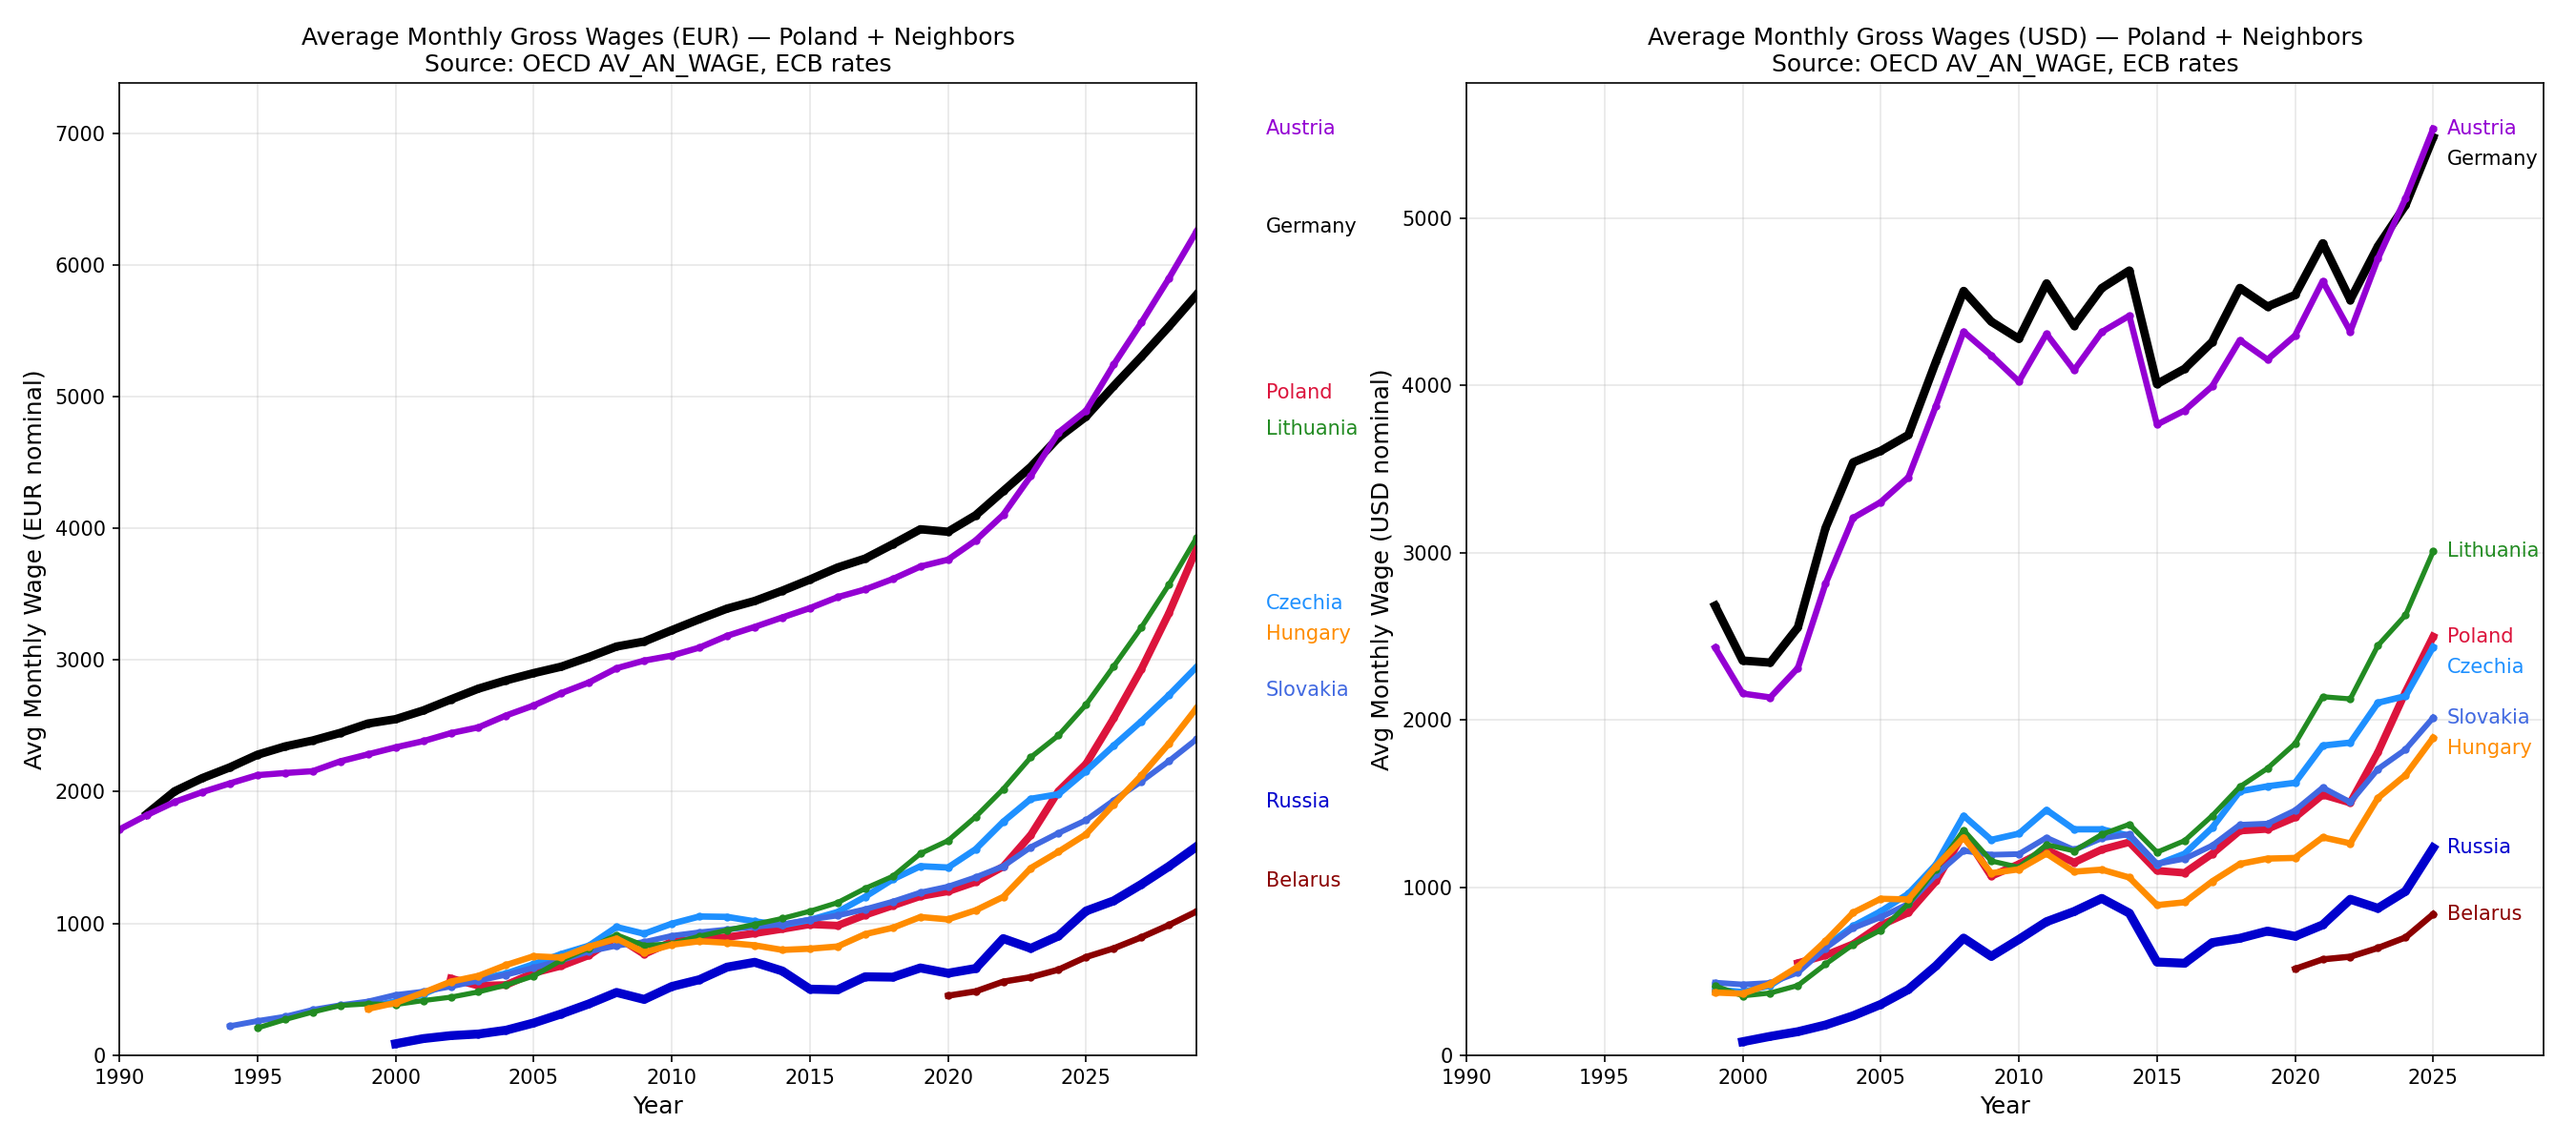
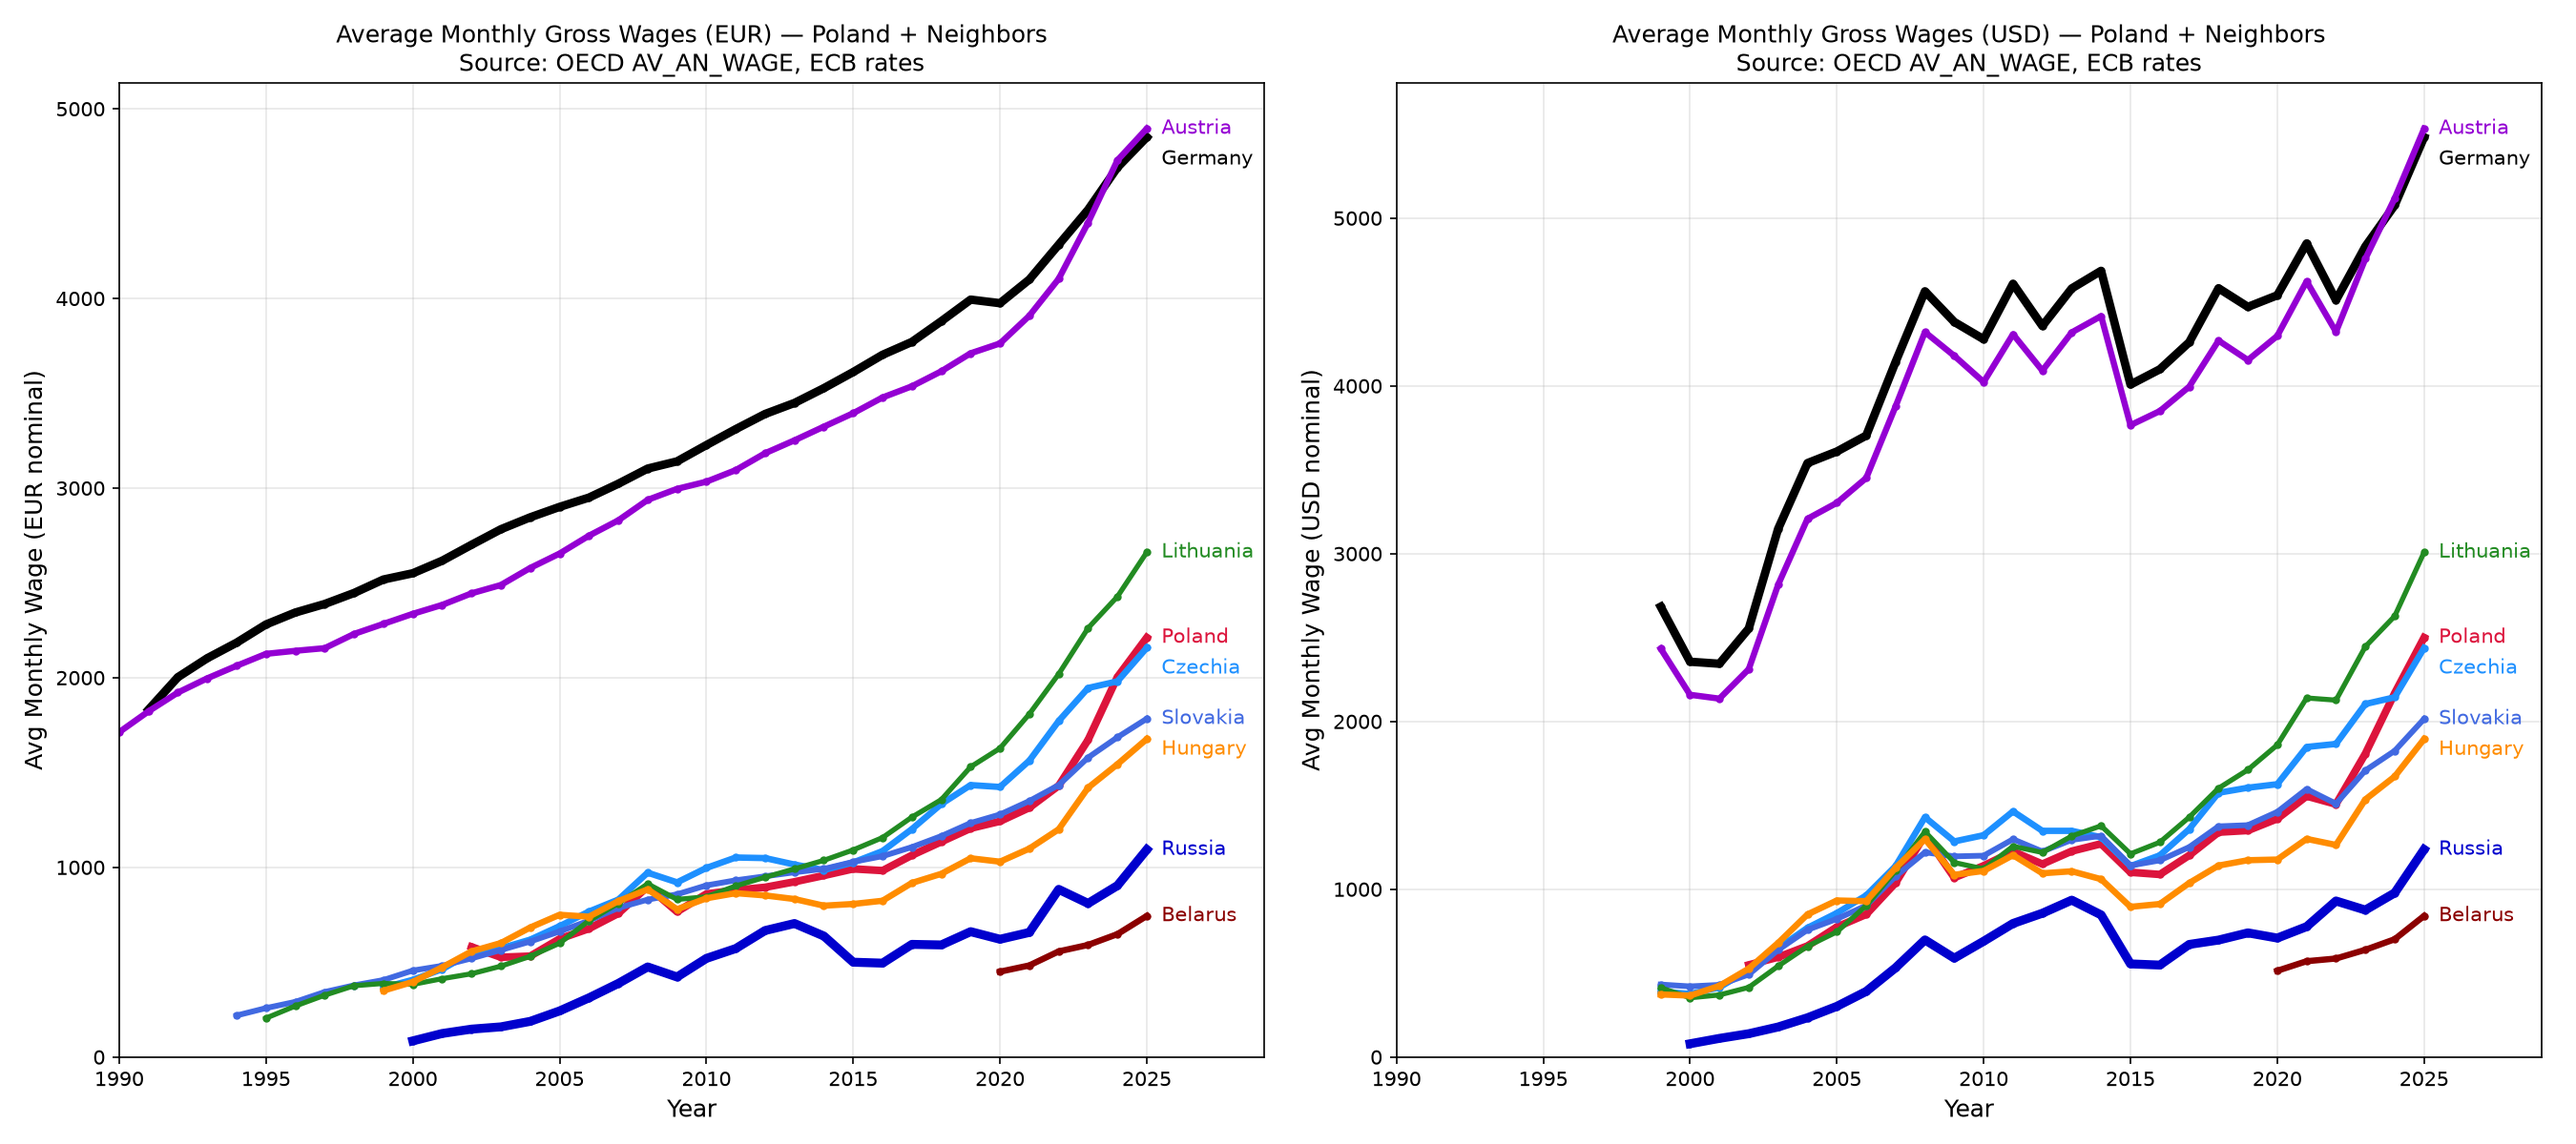
Fix chart 01: pass historical rows only, exclude projected data

diff --git a/src/fetch_all_wages.py b/src/fetch_all_wages.py
@@ -1741,7 +1741,7 @@ def main():
     print("CHARTS")
     print("=" * 70)
 
-    plot_focus(all_rows,
+    plot_focus(rows,
                ["DE", "PL", "CZ", "SK", "LT", "HU", "AT", "BY", "RU"],
                "oecd_01_poland_neighbors.png",
                " — Poland + Neighbors")
